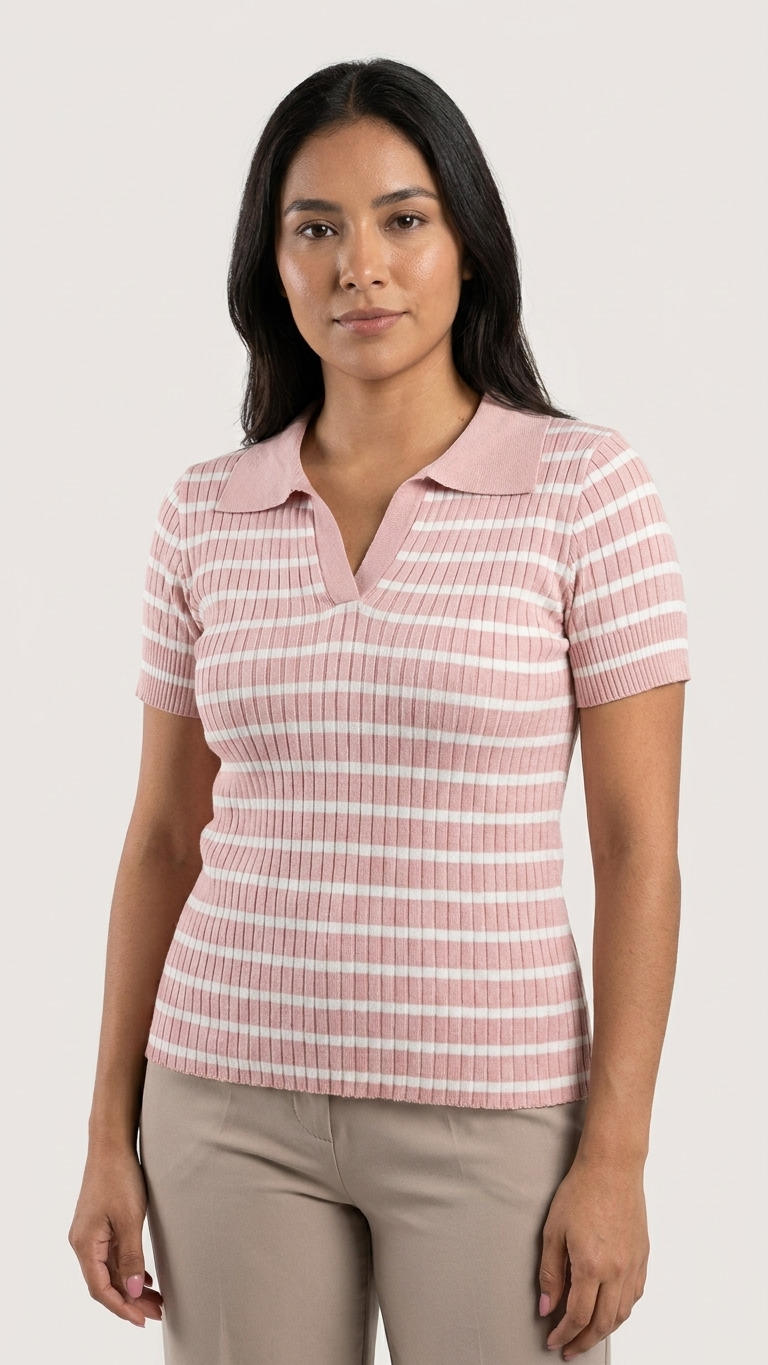
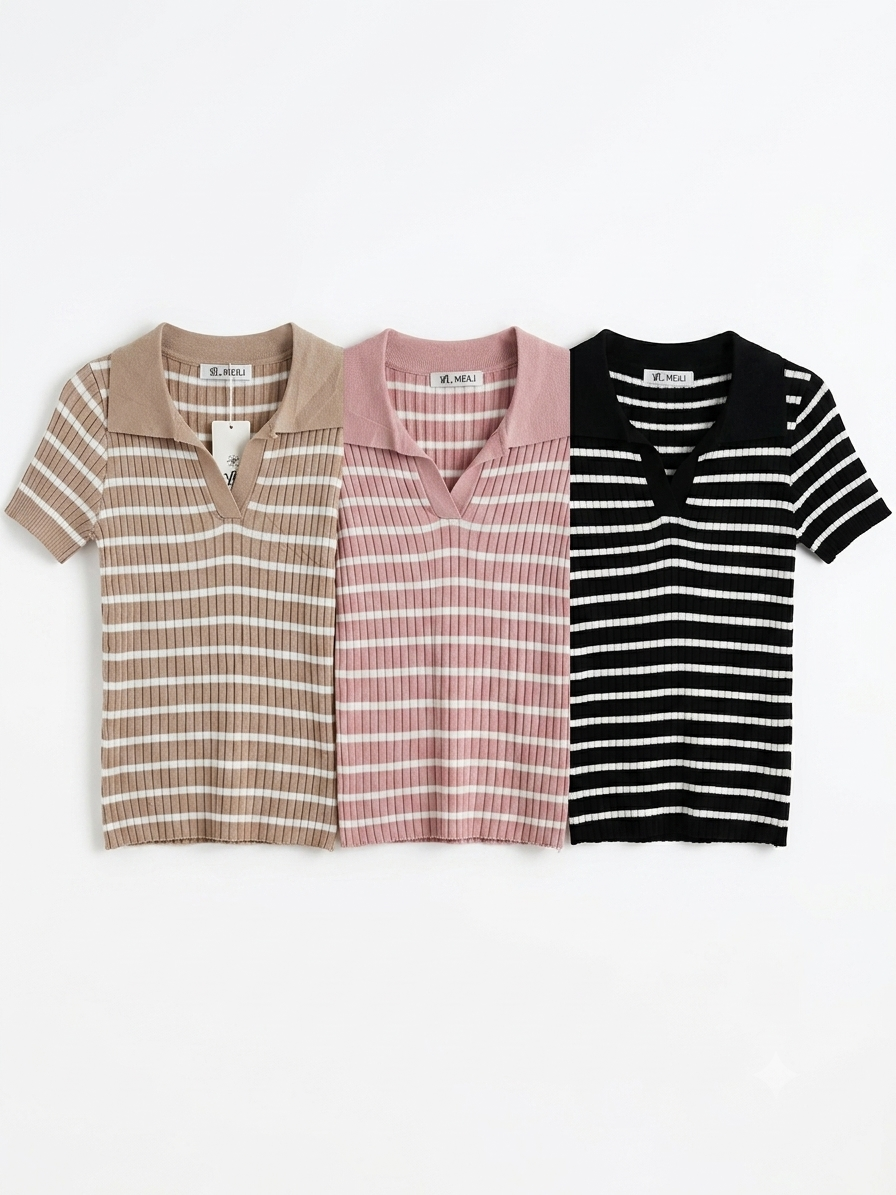
chore(admin): actualizar catálogo (30 productos)

diff --git a/src/data/products.ts b/src/data/products.ts
@@ -256,12 +256,21 @@ export const products: Product[] = [
     "id": "custom-1779827783615"
   },
   {
-    "name": "Franela rosa de rallas blancas",
+    "name": "Básica ",
     "price": 15,
     "brand": "SHEIN",
     "category": "casual",
     "image": "/product-images/custom-1779828895681.png",
-    "id": "custom-1779828895681"
+    "id": "custom-1779828895681",
+    "sizes": [
+      "S"
+    ],
+    "colors": [
+      "Rosada con blanco",
+      "blanco con negro",
+      "beige con blanco"
+    ],
+    "stock": 3
   },
   {
     "name": "Franela blanca de rallas grises",
